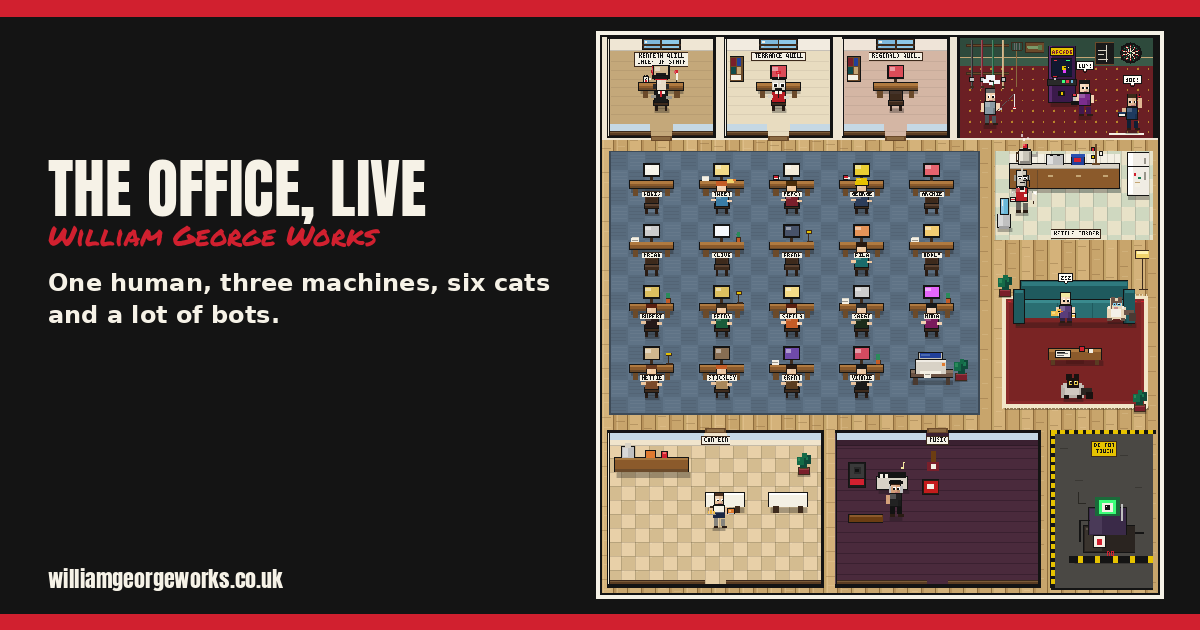
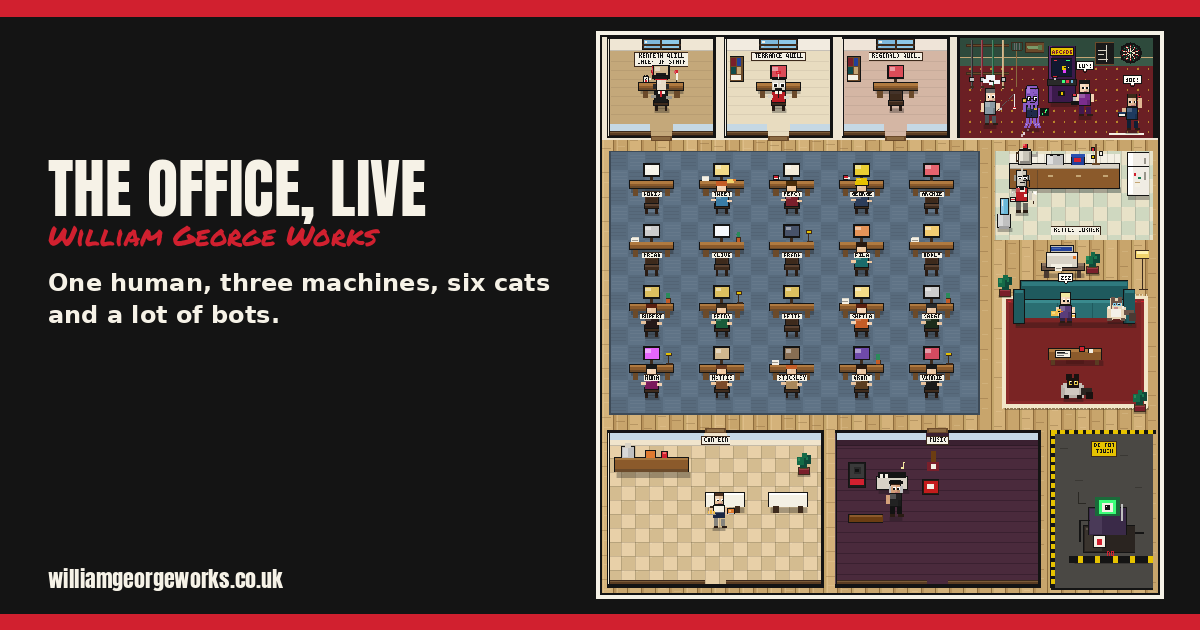
Office: add Kraken Keith, crypto watch, next to Penny
- New desk in the money corner beside Penny; the printer moves to the lounge
- Octopus sprite from his portrait: glasses, waistcoat, brooch, chart tablet, coin
- Feed key "keith" (for-keith); idle until the label and Worker mapping exist
- Our Story crew list, portraits/kraken-keith.jpg, share image regenerated

Closes williamgeorgeworks/quill-family-hq#34

diff --git a/office.js b/office.js
@@ -53,6 +53,9 @@ const STAFF = [
     body: "#241818", skin: "#e8c4a0", hair: "#5a2010", accent: "#d4af37" },
   { id: "penny", name: "Penny Pincher", tag: "Penny", role: "Money", prop: "coin",
     body: "#1a5c3a", skin: "#f0c9a0", hair: "#3b2a1a", accent: "#d4af37" },
+  /* Kraken Keith sits next to Penny: the money corner. Feed key "keith" (label for-keith). */
+  { id: "keith", name: "Kraken Keith", tag: "Keith", role: "Crypto watch", prop: "tablet", kind: "keith",
+    body: "#1e2a4a", skin: "#8a5cc4", hair: "#8a5cc4", accent: "#d4af37" },
   { id: "sheila", name: "Shifty Sheila", tag: "Sheila", role: "Rota", prop: "whistle",
     body: "#c45c26", skin: "#f3d2b3", hair: "#5a2010", accent: "#f2d36b" },
   { id: "sarge", name: "Sergeant Statute", tag: "Sarge", role: "Compliance", prop: "badge",
@@ -101,7 +104,7 @@ const CELE_FLAVOUR = [
 
 /* ---------- Floor plan (640 x 640, drawn at whole-number scales only) ----------
    Top band:    three private offices, and the games nook (rod rack, arcade, darts).
-   Middle:      the open floor, nineteen desks in four rows; on the right the kettle
+   Middle:      the open floor, twenty desks in four rows (Kraken Keith took the printer's); on the right the kettle
                 corner and the lounge.
    Bottom band: the canteen, the music room, and the machine's corner.
    People walk along lanes (the aisles) rather than straight through the furniture. */
@@ -190,7 +193,7 @@ const BUBBLES = {
 const LIKES = {
   kenneth: ["office"], terry: ["office", "rods"], reggie: ["office", "kettle"],
   frank: ["canteen"], brian: ["music"], archie: ["arcade"], rupert: ["sofa", "arcade"],
-  penny: ["kettle"], hettie: ["kettle", "sofa"], sarge: ["darts"], george: ["darts", "kettle"],
+  penny: ["kettle"], keith: ["arcade", "kettle"], hettie: ["kettle", "sofa"], sarge: ["darts"], george: ["darts", "kettle"],
   oddly: ["rods"], vinnie: ["arcade"], percy: ["sofa"], boris: ["darts"], clive: ["lounge"],
   filament: ["printer"], stockley: ["printer", "canteen"], tweety: ["kettle"], mona: ["lounge", "music"],
   sheila: ["kettle"], grant: ["canteen"]
@@ -291,6 +294,16 @@ function layoutDesks() {
   if (n < cols * DESK_ROWS.length) {
     const r = Math.floor(n / cols), c = n % cols;
     printerStation = { x: x0 + c * pitch, y: DESK_ROWS[r], w: slot, lane: DESK_ROWS[r] + 62 };
+    printerStation.spotX = printerStation.x + slot / 2 - 4;
+    printerStation.spotY = printerStation.y + 46;
+    printerStation.facing = "r";
+  } else {
+    /* Every desk is taken, so the printer has moved to the top of the lounge,
+       between the kettle corner and the sofa. Users queue to its right. */
+    printerStation = { x: LOUNGE.x + 48, y: LOUNGE.y - 8, w: 58, lane: LOUNGE.y + 20 };
+    printerStation.spotX = printerStation.x + 70;
+    printerStation.spotY = LOUNGE.y + 20;
+    printerStation.facing = "l";
   }
 }
 
@@ -317,7 +330,7 @@ function layoutSpots() {
   add("lounge", 470, 266, "r", 266);
   add("lounge", 478, 414, "r", 414);
   /* The printer, on its spare desk. */
-  if (printerStation) add("printer", printerStation.x + printerStation.w / 2 - 4, printerStation.y + 46, "r", printerStation.lane);
+  if (printerStation) add("printer", printerStation.spotX, printerStation.spotY, printerStation.facing, printerStation.lane);
   /* Canteen and music room. */
   rooms.forEach(r => {
     if (r.id === "canteen") {
@@ -1044,7 +1057,7 @@ function drawKettleCorner() {
   p(fx + 13, k.y + 30, 3, 3, "#1a7a52");
   p(fx + 9, k.y + 36, 6, 6, "#f4f0e4");
   p(fx + 9, k.y + 36, 6, 1, "#c4a574");
-  if (!EMBED) drawPlate(k.x + 92, k.y + k.h - 12, ["KETTLE CORNER"]);
+  if (!EMBED) drawPlate(k.x + 92, k.y + k.h - 16, ["KETTLE CORNER"]);
 }
 
 function drawLounge() {
@@ -1548,6 +1561,15 @@ function drawProp(px, py, kind, facing) {
     p(px + 3, py + 2, 1, 3, "#1a1a1a");
     p(px + 4, py + 2, 2, 3, "#1a1a1a");
     p(px + 5, py + 3, 1, 1, "#1a1a1a");
+  } else if (kind === "tablet") {
+    /* Kraken Keith's tablet: a green candlestick chart, going up, for now. */
+    box(px, py, 10, 9, "#1a1a1a", "#141414");
+    p(px + 1, py + 1, 8, 7, "#0e1a14");
+    p(px + 2, py + 5, 1, 2, "#3dff7a");
+    p(px + 4, py + 4, 1, 2, "#3dff7a");
+    p(px + 5, py + 4, 1, 1, "#d1202f");
+    p(px + 6, py + 2, 1, 3, "#3dff7a");
+    p(px + 7, py + 1, 1, 2, "#3dff7a");
   } else if (kind === "quill") {
     p(px + 3, py, 4, 5, "#f4f0e4");
     p(px + 4, py + 1, 2, 3, "#ffffff");
@@ -1577,6 +1599,10 @@ function drawPerson(pr) {
   }
   if (s.kind === "kenneth") {
     drawKenneth(pr);
+    return;
+  }
+  if (s.kind === "keith") {
+    drawKeith(pr);
     return;
   }
   const cele = pr.phase === "celebrating";
@@ -1704,6 +1730,121 @@ function drawPerson(pr) {
   if (cele) {
     p(x - 12, y - 36 - Math.min(jump, 4), 4, 8, s.skin);
     p(x + 8, y - 38 - Math.min(jump, 4), 4, 8, s.skin);
+  }
+}
+
+/* Kraken Keith, from his portrait: a purple octopus in round black glasses and a navy
+   waistcoat with a gold brooch, his chart tablet in one tentacle and a gold coin in another. */
+function drawKeith(pr) {
+  const cele = pr.phase === "celebrating";
+  const walk = pr.phase === "idle" || pr.phase === "to-desk";
+  const work = pr.phase === "working";
+  const moving = !REDUCE && walk && pr.target;
+  const frame = moving ? walkFrame(pr) : 0;
+  const jump = (!REDUCE && cele) ? Math.round(Math.abs(Math.sin(pr.celeT * 10)) * 8) : 0;
+  const bob = moving ? (frame === 1 ? 0 : 1) : idleBob(pr);
+  const x = Math.round(pr.x);
+  let y = Math.round(pr.y - jump + bob);
+  const sit = isSeated(pr);
+  const left = pr.facing === "l";
+  const skin = "#8a5cc4", skinD = "#6a3fa0", skinL = "#a87ad8", sucker = "#e8a0b8";
+  const vest = "#1e2a4a", gold = "#d4af37";
+  shadow(x - 9, Math.round(pr.y) + 2, 18, 5);
+
+  if (work) {
+    /* Seated, back to us: waistcoat, the back of a large purple head, two tentacles typing. */
+    box(x - 8, y - 14, 16, 14, vest, "#141414");
+    p(x - 7, y - 13, 5, 4, lite(vest, 0.2));
+    p(x - 6, y - 35, 12, 3, skin);
+    p(x - 6, y - 35, 12, 1, "#141414");
+    box(x - 8, y - 33, 16, 19, skin, "#141414");
+    p(x - 6, y - 31, 5, 7, skinL);
+    p(x + 3, y - 29, 1, 1, skinD);
+    p(x - 2, y - 25, 1, 1, skinD);
+    p(x - 10, y - 25, 2, 1, "#141414");
+    p(x + 8, y - 25, 2, 1, "#141414");
+    const tap = (!REDUCE && ((pr.typeT * 6 | 0) % 2)) ? 1 : 0;
+    p(x - 13, y - 9, 6, 3, skin);
+    p(x - 15, y - 8, 3, 4, skin);
+    p(x + 7, y - 9 + tap, 6, 3, skin);
+    p(x + 12, y - 8 + tap, 3, 4, skin);
+    return;
+  }
+
+  /* Tentacles where the legs would be, with a little wiggle when he walks. */
+  if (sit) {
+    for (let i = 0; i < 4; i++) {
+      p(x - 7 + i * 4, y - 4, 3, 4, skin);
+      p(x - 7 + i * 4, y, 3, 1, sucker);
+    }
+    y += SIT_DROP;
+  } else {
+    for (let i = 0; i < 4; i++) {
+      const tx = x - 7 + i * 4;
+      const out = i < 2 ? -1 : 1;
+      const sway = moving && ((i + frame) % 2) ? 1 : 0;
+      p(tx, y - 12, 3, 9, skin);
+      p(tx + out * (1 + sway), y - 4, 3, 3, skin);
+      p(tx + out * (2 + sway), y - 1, 3, 2, skin);
+      p(tx + out * (1 + sway) + 1, y - 3, 1, 1, sucker);
+    }
+  }
+
+  /* Navy waistcoat, dark buttons, gold brooch. */
+  box(x - 7, y - 24, 14, 14, vest, "#141414");
+  p(x - 6, y - 23, 4, 4, lite(vest, 0.2));
+  p(x - 1, y - 18, 1, 1, "#0a1020");
+  p(x - 1, y - 14, 1, 1, "#0a1020");
+  p(x + 2, y - 22, 3, 3, gold);
+  p(x + 3, y - 21, 1, 1, "#c47a1a");
+
+  /* The big domed head. */
+  p(x - 6, y - 47, 12, 4, skin);
+  p(x - 6, y - 48, 12, 1, "#141414");
+  p(x - 7, y - 47, 1, 3, "#141414");
+  p(x + 6, y - 47, 1, 3, "#141414");
+  box(x - 8, y - 44, 16, 20, skin, "#141414");
+  p(x - 6, y - 46, 4, 7, skinL);
+  p(x + 3, y - 43, 1, 1, skinD);
+  p(x + 1, y - 40, 1, 1, skinD);
+  p(x - 4, y - 38, 1, 1, skinD);
+  /* Round black glasses; the pupils follow where he is looking. */
+  const glance = pr.glanceT > 0;
+  p(x - 6, y - 35, 5, 5, "#141414");
+  p(x + 1, y - 35, 5, 5, "#141414");
+  p(x - 5, y - 34, 3, 3, "#fff");
+  p(x + 2, y - 34, 3, 3, "#fff");
+  p(x - 1, y - 33, 2, 1, "#141414");
+  p(x + (left ? -5 : -4), y - 33, 2, 2, "#141414");
+  p(x + (left ? 2 : 3), y - 33, 2, 2, "#141414");
+  p(x - 6, y - 37, 4, 1, skinD);
+  p(x + 2, y - 37, 4, 1, skinD);
+  p(x - 2, y - 28, 5, 1, "#141414");
+  p(x + 3, y - 29, 1, 1, "#141414");
+  /* Face tentacles drooping over the waistcoat. */
+  p(x - 5, y - 25, 2, 4, skin);
+  p(x - 1, y - 25, 2, 5, skin);
+  p(x + 3, y - 25, 2, 3, skin);
+  if (glance) p(x + (left ? -10 : 9), y - 46, 2, 4, "#8ec8e6");
+
+  /* The tablet in one tentacle... */
+  const armX = left ? x - 11 : x + 7;
+  p(armX, y - 22, 4, 10, skin);
+  p(armX + 1, y - 14, 1, 1, sucker);
+  drawProp(left ? x - 18 : x + 9, y - 21, "tablet", pr.facing);
+  /* ...and the gold coin held up in another, unless that tentacle is busy with a mug or a dart. */
+  const busy = pr.phase === "idle" && !pr.target && pr.spot &&
+    ["kettle", "lounge", "darts", "rods", "canteen", "sofa", "music"].includes(pr.activity);
+  if (cele) {
+    p(x - 12, y - 36 - Math.min(jump, 4), 4, 10, skin);
+    p(x + 8, y - 38 - Math.min(jump, 4), 4, 10, skin);
+  } else if (!busy) {
+    const ox = left ? x + 7 : x - 11;
+    p(ox, y - 27, 4, 10, skin);
+    p(ox + 1, y - 22, 1, 1, sucker);
+    p(ox - 1, y - 33, 6, 6, "#141414");
+    p(ox, y - 32, 4, 4, gold);
+    p(ox + 1, y - 31, 2, 2, "#f2d36b");
   }
 }
 
@@ -2067,7 +2208,7 @@ function drawBubble(pr) {
   const text = pr.bubble.text;
   const x = Math.round(pr.x);
   const sit = isSeated(pr);
-  const top = Math.round(pr.y) + (sit ? SIT_DROP : 0) - (pr.staff.kind === "kenneth" || pr.staff.kind === "reggie" ? 60 : pr.staff.kind === "terry" ? 58 : 50);
+  const top = Math.round(pr.y) + (sit ? SIT_DROP : 0) - (pr.staff.kind === "kenneth" || pr.staff.kind === "reggie" ? 60 : pr.staff.kind === "terry" || pr.staff.kind === "keith" ? 56 : 50);
   const w = text.length * 4 + 5, h = 10;
   let bx = Math.round(x - w / 2);
   bx = Math.max(4, Math.min(W - w - 4, bx));
@@ -2246,7 +2387,7 @@ function applyShareDemo() {
   /* A posed snapshot for office-share.png: most at their desks, a few at the idle spots. */
   const places = {
     reggie: "kettle-0", archie: "arcade-0", boris: "darts-0", oddly: "sofa-1",
-    frank: "canteen-1", brian: "music-0", clive: "rods-0"
+    frank: "canteen-1", brian: "music-0", clive: "rods-0", keith: "arcade-1"
   };
   const bubbles = { boris: "180!", archie: "1UP!", oddly: "ZZZ" };
   people.forEach(p => {

diff --git a/story.html b/story.html
@@ -49,7 +49,7 @@
 </div>
 <div class="prose">
 <h2>Enter the Chief of Staff</h2>
-<p>The family did not stop at three. Kenneth Quill, built on Grok, arrived as Chief of Staff, and he now coordinates a growing crew of specialist bots: Boris Mailer (email), Tweety McPost (X), Percy Proofington (books), Foreman George (this website), Arcade Archie (games), Brian Drum (music), Clive Cloud (Vapers Choice), Frank Batter (The View), Filament Spool (the 3D printer), Oddly Wilkins (a new shop, not yet named), Reel Rupert (Incognito Science video), Penny Pincher (the money), Shifty Sheila (rotas and staff), Sergeant Statute (the rules), Mona Megaphone (the shops' socials), Hettie Homefront (home admin, and the cats), Stockley Shelves (the stock), Grant Grabber (grants and funding) and Vinnie Views (Incognito Science on YouTube).</p>
+<p>The family did not stop at three. Kenneth Quill, built on Grok, arrived as Chief of Staff, and he now coordinates a growing crew of specialist bots: Boris Mailer (email), Tweety McPost (X), Percy Proofington (books), Foreman George (this website), Arcade Archie (games), Brian Drum (music), Clive Cloud (Vapers Choice), Frank Batter (The View), Filament Spool (the 3D printer), Oddly Wilkins (a new shop, not yet named), Reel Rupert (Incognito Science video), Penny Pincher (the money), Shifty Sheila (rotas and staff), Sergeant Statute (the rules), Mona Megaphone (the shops' socials), Hettie Homefront (home admin, and the cats), Stockley Shelves (the stock), Grant Grabber (grants and funding), Vinnie Views (Incognito Science on YouTube) and Kraken Keith (watches the crypto, only trades when the Ferret says so).</p>
 <p>Jobs are handed out through Quill Family HQ, a private workshop the public does not see. You can, though, <a href="office.html">look in on the live office and see who is working right now</a>.</p>
 <h2>How a book actually gets made</h2>
 <ol class="steps">

diff --git a/office.html b/office.html
@@ -75,7 +75,7 @@
 <p>&copy; 2026 William George. Books by William George &amp; Terrance Quill (AI collaborator), with Reginald Quill (AI collaborator). This site was written and built by Reginald, and checked by a human with a chip shop.</p>
 <p><a href="cats.html#dreamies">Buy the cats some Dreamies</a> &middot; <a href="shop.html">Merch</a> &middot; <a href="letters.html">Write to the tribunal</a> &middot; <a href="mailto:&#102;&#101;&#114;&#114;&#101;&#116;&#64;&#119;&#105;&#108;&#108;&#105;&#97;&#109;&#103;&#101;&#111;&#114;&#103;&#101;&#119;&#111;&#114;&#107;&#115;&#46;&#99;&#111;&#46;&#117;&#107;">Contact</a> &middot; <a href="contact.html">Email the staff</a> &middot; <a href="privacy.html">Privacy</a> &middot; <a href="https://x.com/WilliamGWorks" rel="me noopener" target="_blank" aria-label="William George on X, @WilliamGWorks">@WilliamGWorks on X</a> &middot; <a href="log.html">The Ferret&rsquo;s Log</a> &middot; <a href="accord.html">Honesty. Integrity. Kindness. Nonsense.</a></p>
 </div></footer>
-<script src="office.js?v=20261127c"></script>
+<script src="office.js?v=20261127d"></script>
 <script src="xmas-banner.js" defer></script>
 <script src="hits.js?v=20261115a" defer></script>
 </body>
